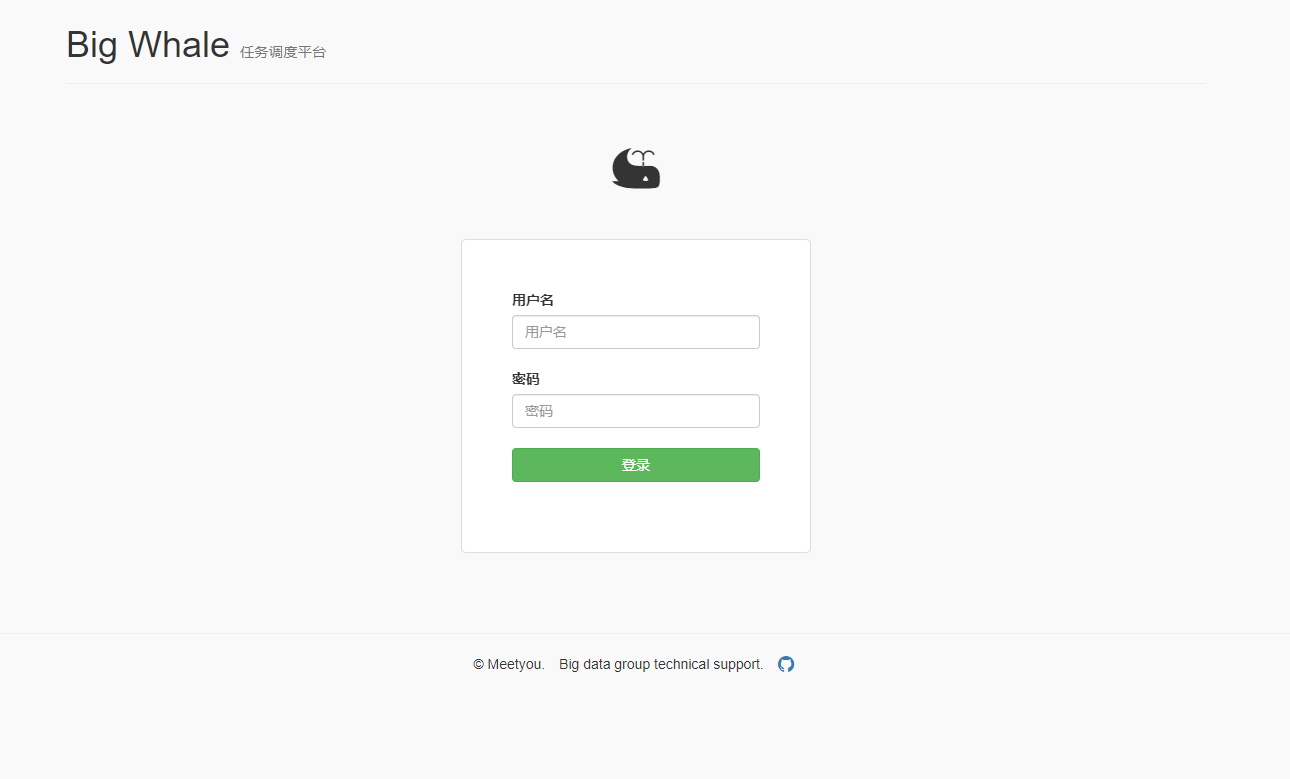
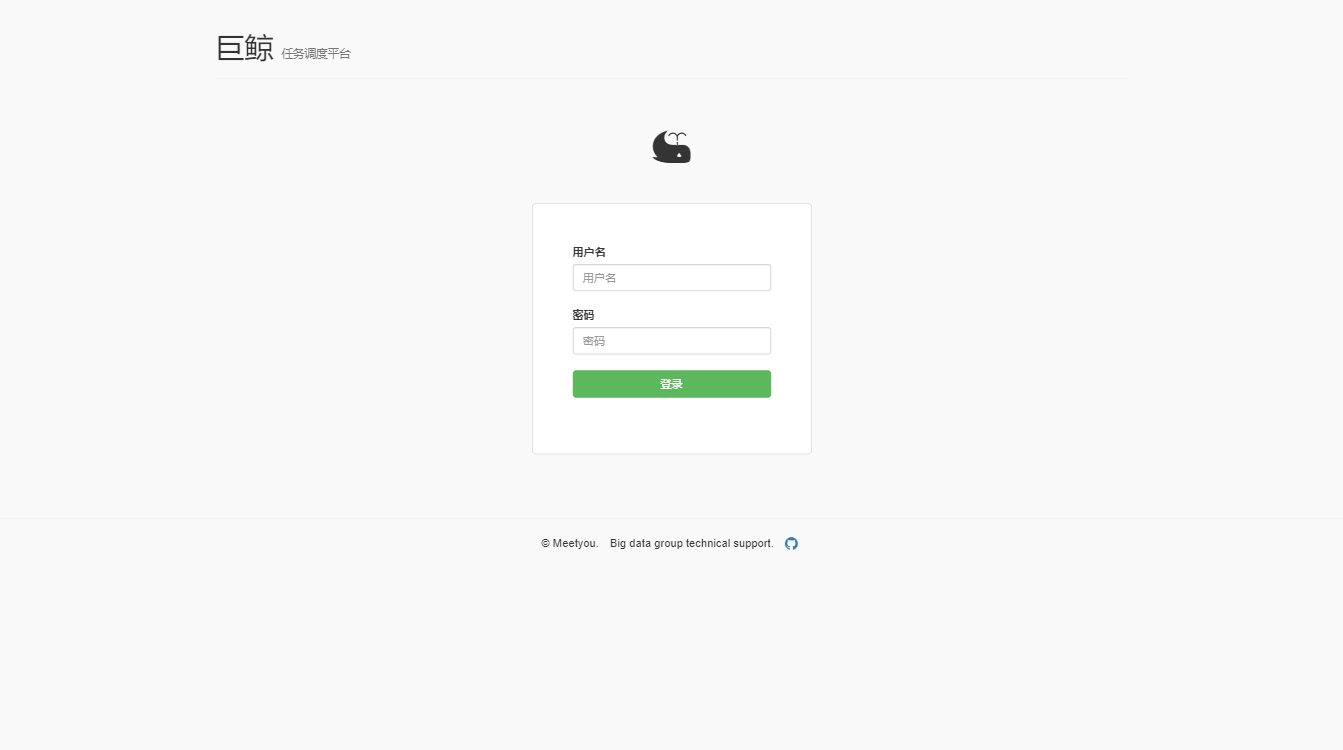
README.md

diff --git a/src/main/resources/templates/index.html b/src/main/resources/templates/index.html
@@ -32,7 +32,7 @@
     <!-- 顶部开始 -->
     <div class="container">
         <div class="logo">
-            <a href="./">BWP</a>
+            <a href="./">Big Whale</a>
         </div>
         <div class="left_open">
             <a><i title="展开左侧栏" class="fa fa-navicon" aria-hidden="true"></i></a>

diff --git a/src/main/resources/templates/login.html b/src/main/resources/templates/login.html
@@ -17,7 +17,7 @@
     <div class="row">
         <div class="col-md-12">
             <div class="page-header">
-                <h1>Big Whale
+                <h1>巨鲸
                     <small style="font-size: 40%">任务调度平台</small>
                 </h1>
             </div>
